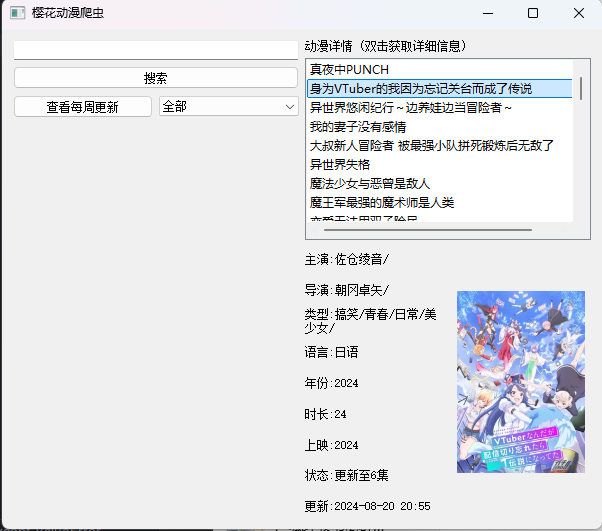
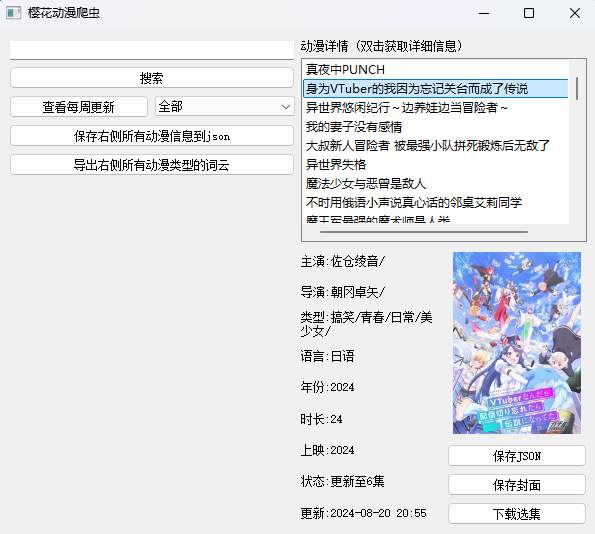
updated preview and readme

diff --git a/readme.md b/readme.md
@@ -1,19 +1,27 @@
 # yinghua_spider
 
-用bs4写的樱花动漫 (yinghua.uk) 爬虫，仅用于学习用途，交学校作业
+用bs4和pyqt5写的樱花动漫 (yinghua.uk) 爬虫，仅用于学习用途，交学校作业
+
+使用方法: `python3 yinghua_spider.py`
 
 ![Preview](preview.png)
-*史一样的GUI，，*
 
+*史一样的GUI*
+
+依赖项: pillow, bs4, pyqt5, requests
+
+wordcloud, matplotlib
 
 已完成:
 1. 获取每周更新的动漫
 2. 获取动漫的封面和详细信息
 3. 保存动漫信息到本地
-4. 能够搜索动漫
-5. 使用PyQT5的GUI
+4. 可以分批保存Json
+5. 能够搜索动漫
+6. 使用PyQT5的GUI
+7. 可以根据搜索的动漫类型生成词云图
 
 todo:
-1. 词云
-2. 下载视频
-4. excel分析
+1. 下载视频
+2. excel分析
+3. 多线程下载器
